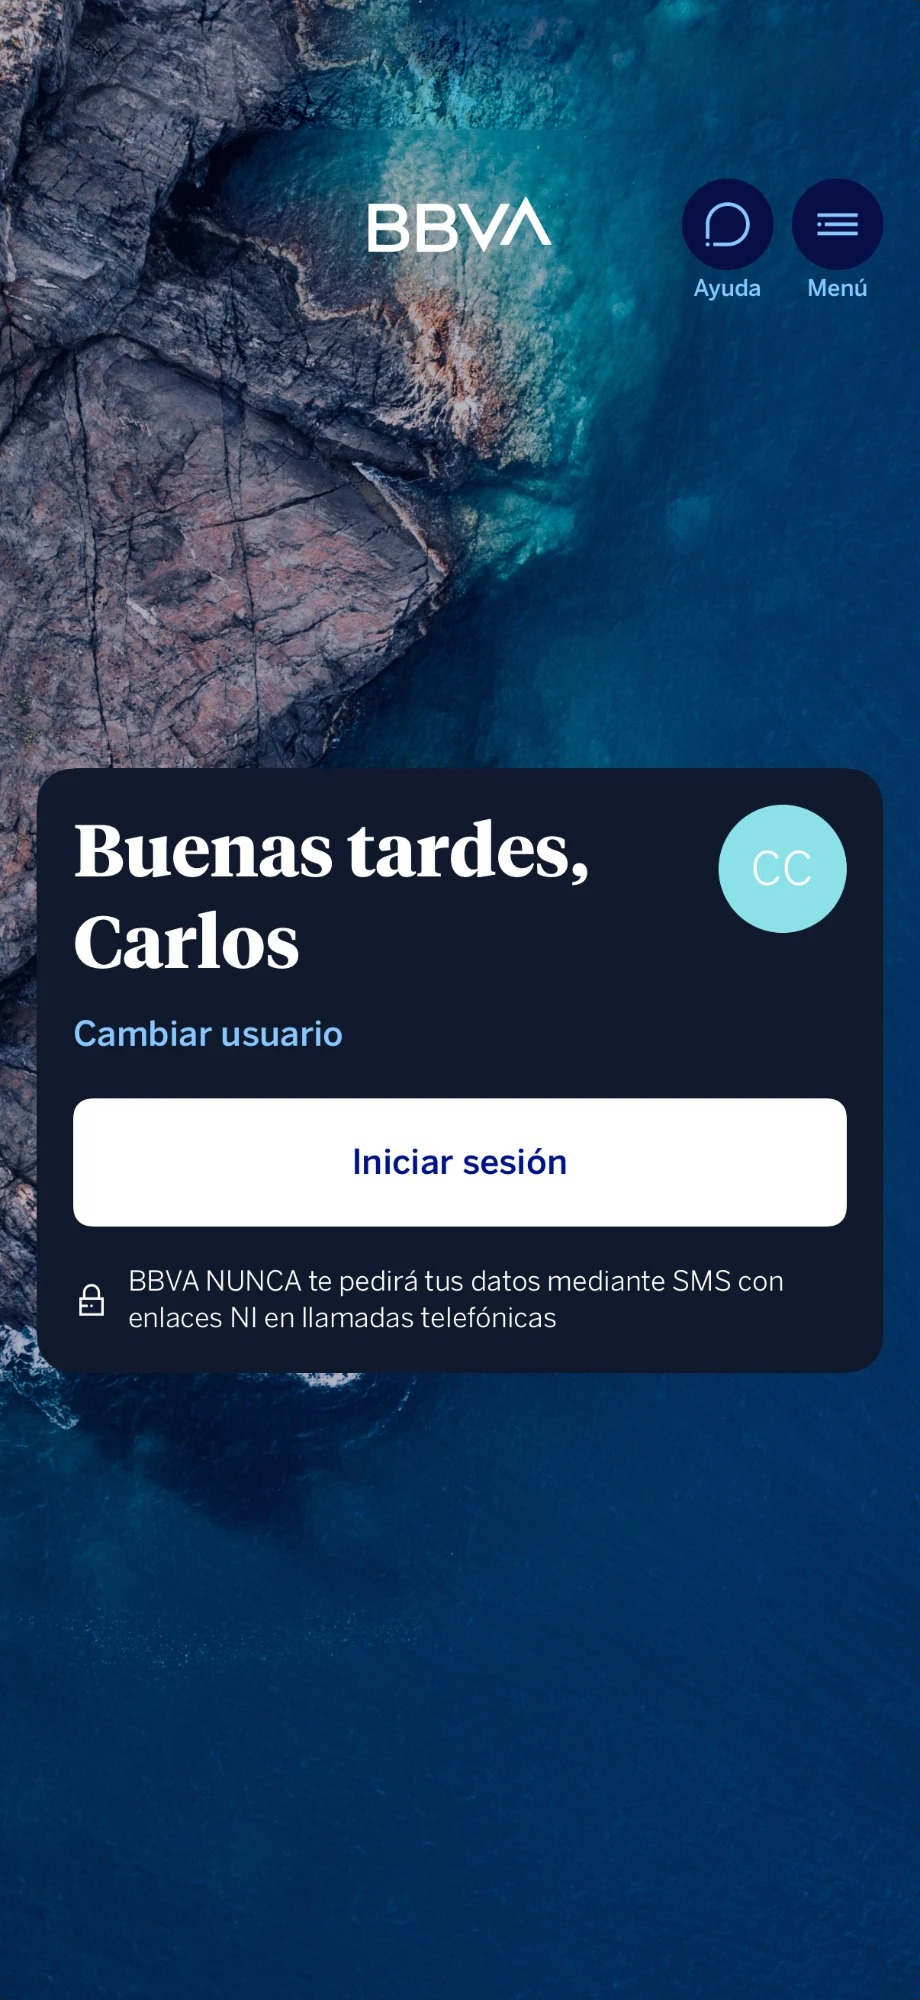
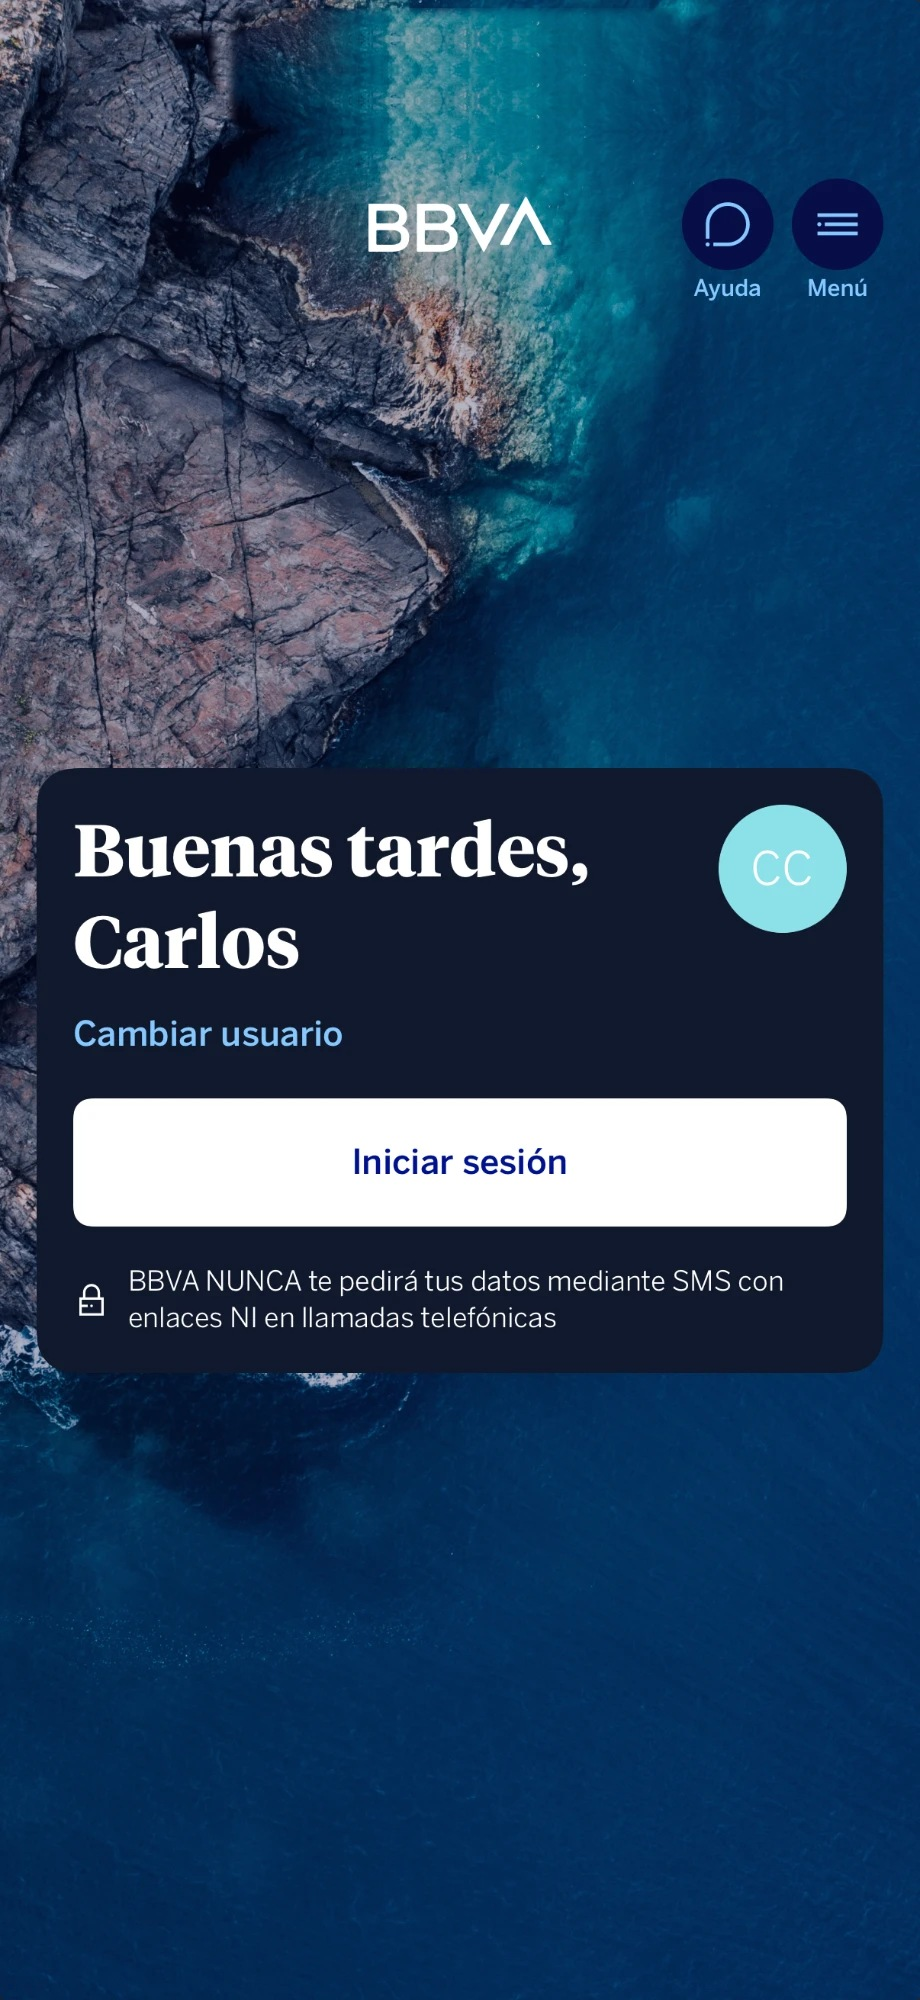
Add files via upload

Changed region(s): [[0.0609, 0.0, 0.7, 0.062]]

diff --git a/style.css b/style.css
@@ -9,13 +9,22 @@ html, body {
   height: 100%;
   overflow: hidden;
   overscroll-behavior: none;
-  background: #022d5a; /* mismo azul que el fondo de abajo de la foto */
   font-family: "Inter", -apple-system, BlinkMacSystemFont, "Segoe UI", Roboto, sans-serif;
   -webkit-font-smoothing: antialiased;
 }
 
-/* Pantalla completa con la foto original.
-   --u = 1 píxel de la captura original (920 x 2000) */
+/* La foto original va en el fondo raíz: iOS lo pinta en TODA la pantalla
+   (también por debajo de donde acaba la página en modo app).
+   El tamaño exacto en píxeles lo pone el script según la pantalla. */
+html {
+  background: #022d5a url("bg.jpg") 0 0 / 100vw 100vh no-repeat;
+}
+
+body {
+  background: transparent;
+}
+
+/* Capa donde va la tarjeta. --u = 1 píxel de la captura original (920 x 2000) */
 .stage {
   position: fixed;
   top: 0;
@@ -23,7 +32,6 @@ html, body {
   width: 100%;
   height: 100vh;
   container-type: size;
-  background: url("bg.jpg") center / 100% 100% no-repeat;
 }
 
 .card {

diff --git a/index.html b/index.html
@@ -45,8 +45,10 @@
       var standalone = window.navigator.standalone === true ||
         window.matchMedia('(display-mode: standalone)').matches;
       function fit() {
+        var w = window.innerWidth;
         var h = standalone ? Math.max(screen.height, window.innerHeight) : window.innerHeight;
         stage.style.height = h + 'px';
+        document.documentElement.style.backgroundSize = w + 'px ' + h + 'px';
       }
       fit();
       window.addEventListener('resize', fit);
